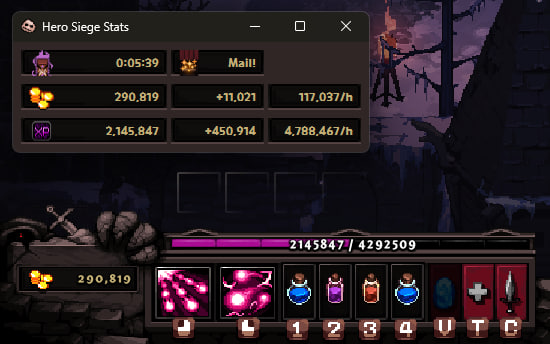
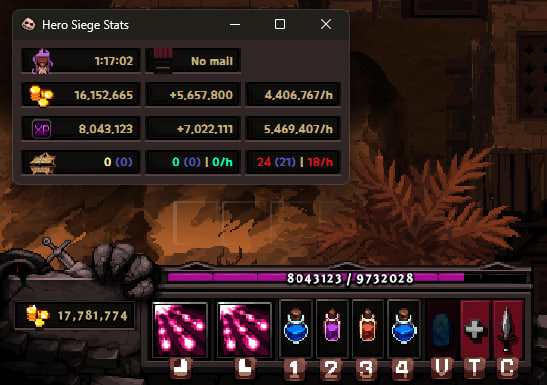
docs: features and limitations

diff --git a/README.md b/README.md
@@ -8,6 +8,21 @@ This is a simple tool that tracks the requests made between the game and the ser
 
 ![App preview](/assets/readme/preview.jpg)
 
+## Features
+
+- Session time
+- Mailbox notification
+- Gold earned and gold per hour
+- XP earned and XP per hour
+- Items picked up (Angelic, Heroic and Satanic) (Blue number means Magic Find drops)
+ 
+## Limitations
+
+- Gold picked up from mailbox is counted as gold earned
+- XP earned can be wrong when leveling up (would need the max XP for each level)
+- Items moved between inventories are counted as picked up
+- Items dropped by players are counted as picked up
+
 ## How to use
 
 1. On Windows make sure that WinPcap is installed in your system. [Npcap downloads page](https://npcap.com/#download) | [Direct link](https://npcap.com/dist/npcap-1.77.exe).
@@ -24,7 +39,7 @@ This is a simple tool that tracks the requests made between the game and the ser
   - [x] Damien (Europe 2)
   - [ ] Karponia (Asia)
 - [ ] Session reset button
-- [ ] Items drop counter
+- [x] Items drop counter
 - [ ] XP percentage
 
 # Instructions for developers
